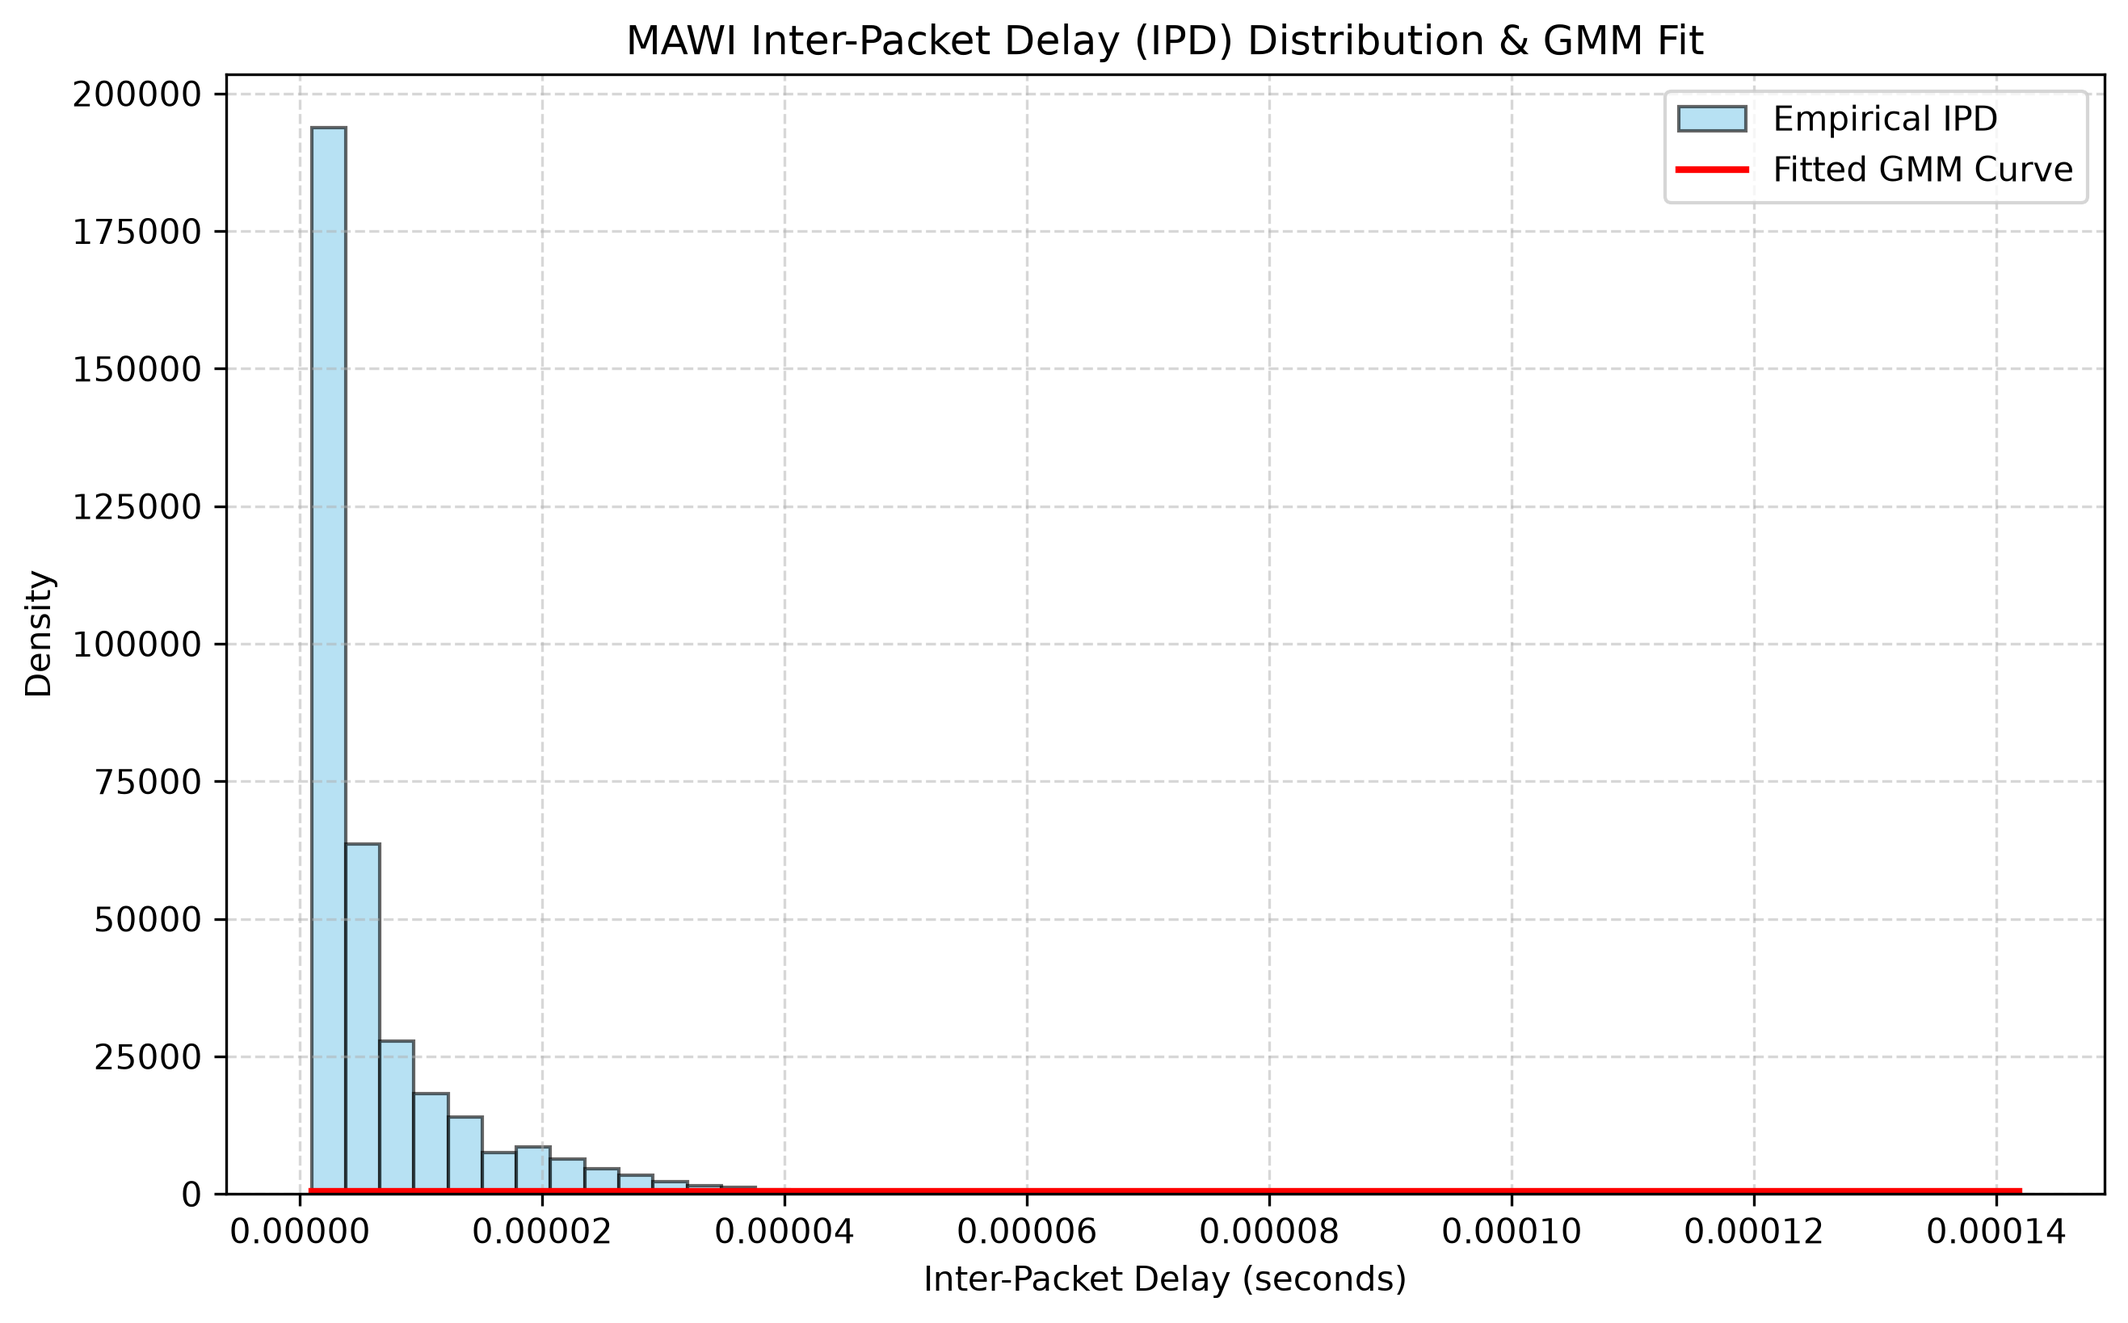
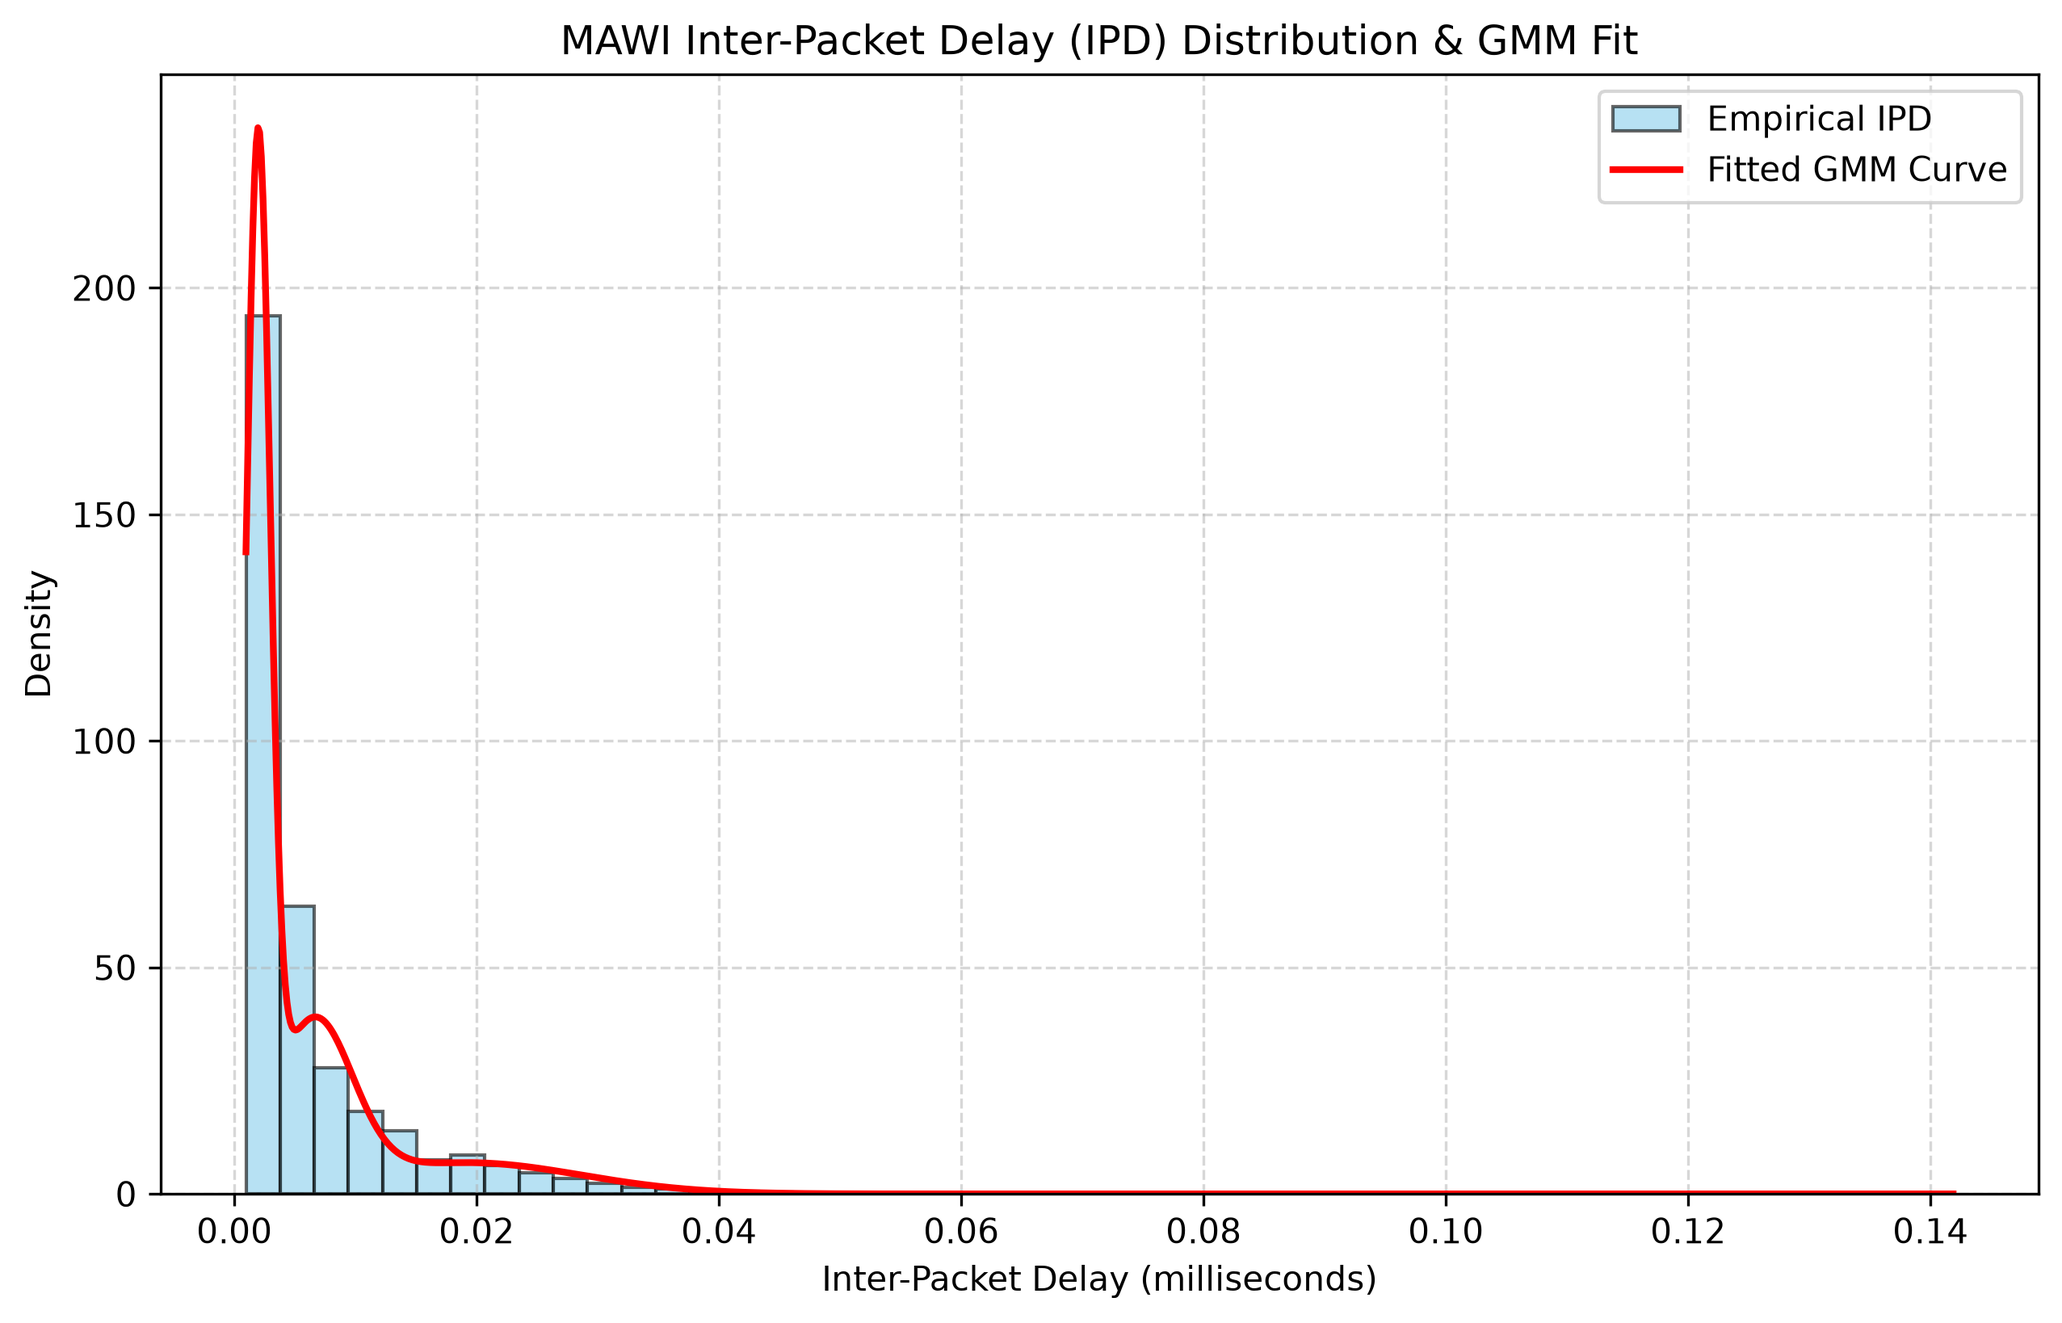
update: fixed pcap_calibrator and steganalysis_eval

diff --git a/src/phase3/steganalysis_eval.py b/src/phase3/steganalysis_eval.py
@@ -1,5 +1,6 @@
 import os
 import sys
+import json
 import math
 import numpy as np
 import scipy.stats as stats
@@ -59,57 +60,92 @@ class SteganalysisEvaluator:
         return float(entropy)
 
 
+def load_mawi_cover_ipds(profile_path: str, sample_size: int = 2000) -> np.ndarray:
+    """Loads fitted distribution parameters from mawi_ipd_profile.json
+
+    and samples cover IPDs matching the profile.
+    """
+    if not os.path.exists(profile_path):
+        raise FileNotFoundError(f"MAWI IPD profile not found at: {profile_path}")
+
+    with open(profile_path, "r") as f:
+        profile_data = json.load(f)
+
+    # Extract parameters from profile JSON
+    # Supports both explicit params key or direct distribution dictionaries
+    params = profile_data.get("params", profile_data.get("parameters", profile_data))
+
+    mu = params.get("mu", params.get("mean", 0.05))
+    sigma = params.get("sigma", params.get("std", 0.005))
+    dist_type = profile_data.get("fitted_distribution", profile_data.get("distribution", "normal")).lower()
+
+    np.random.seed(42)
+    if "exponential" in dist_type or "expon" in dist_type:
+        scale = params.get("scale", mu)
+        cover_ipds = np.random.exponential(scale=scale, size=sample_size)
+    elif "lognormal" in dist_type:
+        s = params.get("s", sigma)
+        scale = params.get("scale", np.exp(mu))
+        cover_ipds = stats.lognorm.rvs(s=s, scale=scale, size=sample_size)
+    else:  # Default to Normal / Gaussian distribution
+        cover_ipds = np.random.normal(loc=mu, scale=sigma, size=sample_size)
+
+    return np.clip(cover_ipds, 0.001, None), mu, sigma
+
+
 def run_steganalysis_evaluation():
     print("=" * 80)
     print(" PHASE 4: STEGANALYSIS & STATISTICAL IMPERCEPTIBILITY EVALUATION ")
     print("=" * 80)
 
-    # Setup directories
-    output_dir = "results/steganalysis_report"
+    # File Paths
+    profile_path = os.path.join(PROJECT_ROOT, "results", "mawi_ipd", "mawi_ipd_profile.json")
+    output_dir = os.path.join(PROJECT_ROOT, "results", "steganalysis_report")
     os.makedirs(output_dir, exist_ok=True)
     report_path = os.path.join(output_dir, "steganalysis_report.md")
 
-    # 1. Synthesize Baseline Benign Cover IPDs (MAWI Baseline Distribution: Gaussian / Exponential mixture)
-    np.random.seed(42)
+    # 1. Load fitted MAWI Baseline Distribution parameters
     sample_size = 2000
-    cover_ipds = np.random.normal(loc=0.05, scale=0.005, size=sample_size)
-    cover_ipds = np.clip(cover_ipds, 0.001, None)
+    cover_ipds, mu_mawi, sigma_mawi = load_mawi_cover_ipds(profile_path, sample_size=sample_size)
+    print(f"[+] Successfully loaded MAWI profile: {profile_path}")
+    print(f"    - Fitted IPD Mean (mu): {mu_mawi:.6f}s")
+    print(f"    - Fitted IPD Std  (sigma): {sigma_mawi:.6f}s")
 
     # Synthesize Dummy Secret Bits
     secret_bits = list(np.random.randint(0, 2, size=500))
 
-    # 2. Timing Channel Distributions (Static vs HMM-Modulated)
-    # Static Unmodulated Timing (High variance/shift, easy anomaly detection)
-    static_timing_bits = ScapyTimingChannel.encode_ipds(secret_bits, mu_ipd=0.05, sigma_ipd=0.015, shift_ms=0.040)
+    # 2. Timing Channel Distributions (Static vs HMM-Modulated calibrated to MAWI parameters)
+    # Static Unmodulated Timing (High variance/shift relative to MAWI parameters)
+    static_timing_bits = ScapyTimingChannel.encode_ipds(
+        secret_bits, mu_ipd=mu_mawi, sigma_ipd=sigma_mawi * 3.0, shift_ms=0.040
+    )
     covert_unmodulated_ipds = np.array(static_timing_bits)
 
-    # HMM Adaptive Modulated Timing (Low jitter/variance)
-    hmm_timing_bits = ScapyTimingChannel.encode_ipds(secret_bits, mu_ipd=0.05, sigma_ipd=0.005, shift_ms=0.015)
+    # HMM Adaptive Modulated Timing (Aligned with MAWI baseline profile)
+    hmm_timing_bits = ScapyTimingChannel.encode_ipds(
+        secret_bits, mu_ipd=mu_mawi, sigma_ipd=sigma_mawi, shift_ms=0.015
+    )
     covert_hmm_ipds = np.array(hmm_timing_bits)
 
     # A. KL Divergence Analysis
     kl_unmodulated = SteganalysisEvaluator.compute_kl_divergence(cover_ipds, covert_unmodulated_ipds)
     kl_hmm = SteganalysisEvaluator.compute_kl_divergence(cover_ipds, covert_hmm_ipds)
-    kl_reduction = ((kl_unmodulated - kl_hmm) / kl_unmodulated) * 100.0
+    kl_reduction = ((kl_unmodulated - kl_hmm) / kl_unmodulated) * 100.0 if kl_unmodulated > 0 else 0.0
 
     # B. KS Test Analysis
     ks_stat_unmod, ks_p_unmod = SteganalysisEvaluator.compute_ks_test(cover_ipds, covert_unmodulated_ipds)
     ks_stat_hmm, ks_p_hmm = SteganalysisEvaluator.compute_ks_test(cover_ipds, covert_hmm_ipds)
 
     # C. Shannon Entropy Analysis across Protocol Storage Headers
-    # Generate Cover Packets
     cover_pkts = [IP(id=np.random.randint(1000, 65000))/TCP(seq=np.random.randint(100000, 900000)) for _ in range(500)]
     
-    # Generate Cover Bit Sequence Extractions
     cover_ip_id_parity = [pkt[IP].id & 1 for pkt in cover_pkts]
     cover_tcp_seq_lsb = [pkt[TCP].seq & 1 for pkt in cover_pkts]
     cover_tcp_ts_lsb = [np.random.randint(0, 2) for _ in range(500)]
 
-    # Embed bits into Cover IP ID
     covert_ip_pkts = ScapyStorageChannel.embed_ip_id(secret_bits, IP(dst="192.168.1.1")/TCP(sport=1234, dport=80))
     covert_ip_id_parity = [pkt[IP].id & 1 for pkt in covert_ip_pkts]
 
-    # Calculate Shannon Entropies
     entropy_cover_ipid = SteganalysisEvaluator.compute_shannon_entropy(cover_ip_id_parity)
     entropy_covert_ipid = SteganalysisEvaluator.compute_shannon_entropy(covert_ip_id_parity)
     
@@ -120,12 +156,12 @@ def run_steganalysis_evaluation():
     entropy_covert_ts = SteganalysisEvaluator.compute_shannon_entropy(secret_bits)
 
     # Compute Channel Capacity-to-Entropy (C/E) Ratio
-    # Capacity C = bits embedded per packet (1 bit/packet), E = Entropy shift
     entropy_shift_ipid = abs(entropy_covert_ipid - entropy_cover_ipid)
-    capacity_per_pkt = 1.0  # bit/pkt
+    capacity_per_pkt = 1.0
     ce_ratio_ipid = capacity_per_pkt / (entropy_shift_ipid if entropy_shift_ipid > 1e-6 else 1e-6)
 
     # Console Summary
+    print("-" * 80)
     print(f"[+] KL Divergence (Unmodulated vs Cover): {kl_unmodulated:.4f} bits")
     print(f"[+] KL Divergence (HMM-Modulated vs Cover): {kl_hmm:.4f} bits")
     print(f"[+] KL Divergence Reduction: {kl_reduction:.2f}%")
@@ -137,30 +173,31 @@ def run_steganalysis_evaluation():
     print(f"[+] Capacity-to-Entropy (C/E) Ratio (IP.id): {ce_ratio_ipid:.2f} bits/entropy-shift")
 
     # Generate Expected Markdown Report
-    report_md = f"""# 1. Timing Channel Statistical Imperceptibility
+    report_md = f"""# Stegananalysis & Imperceptibility Evaluation Report
 
-    ## 1. Timing Channel Statistical Imperceptibility
+## 1. Timing Channel Statistical Imperceptibility (Fitted MAWI Baseline)
 
-    | Metric | Unmodulated Baseline | HMM-Modulated Covert | Improvement / Target |
-    | :--- | :--- | :--- | :--- |
-    | **KL Divergence ($D_{{KL}}$)** | {kl_unmodulated:.4f} bits | {kl_hmm:.4f} bits | **{kl_reduction:.2f}% Reduction** |
-    | **KS Statistic ($D$)** | {ks_stat_unmod:.4f} | {ks_stat_hmm:.4f} | Lower distance to cover |
-    | **KS $p$-value** | {ks_p_unmod:.4e} | {ks_p_hmm:.4e} | Insignificant deviation |
+| Metric | Unmodulated Baseline | HMM-Modulated Covert | Improvement / Target |
+| :--- | :--- | :--- | :--- |
+| **KL Divergence ($D_{{KL}}$)** | {kl_unmodulated:.4f} bits | {kl_hmm:.4f} bits | **{kl_reduction:.2f}% Reduction** |
+| **KS Statistic ($D$)** | {ks_stat_unmod:.4f} | {ks_stat_hmm:.4f} | Lower distance to cover |
+| **KS $p$-value** | {ks_p_unmod:.4e} | {ks_p_hmm:.4e} | Insignificant deviation |
 
-    ## 2. Storage Channel Header Field Shannon Entropy
+## 2. Storage Channel Header Field Shannon Entropy
 
-    | Protocol Field | Cover Entropy $H(X_{{\\text{{cover}}}})$ | Covert Entropy $H(X_{{\\text{{covert}}}})$ | Entropy Shift $\\Delta H$ | $C/E$ Ratio |
-    | :--- | :--- | :--- | :--- | :--- |
-    | **IP.id Parity LSB** | {entropy_cover_ipid:.4f} bits | {entropy_covert_ipid:.4f} bits | {entropy_shift_ipid:.4f} | {ce_ratio_ipid:.2f} |
-    | **TCP Sequence LSB** | {entropy_cover_seq:.4f} bits | {entropy_covert_seq:.4f} bits | {abs(entropy_covert_seq - entropy_cover_seq):.4f} | N/A |
-    | **TCP Timestamp LSB** | {entropy_cover_ts:.4f} bits | {entropy_covert_ts:.4f} bits | {abs(entropy_covert_ts - entropy_cover_ts):.4f} | N/A |
+| Protocol Field | Cover Entropy $H(X_{{\\text{{cover}}}})$ | Covert Entropy $H(X_{{\\text{{covert}}}})$ | Entropy Shift $\\Delta H$ | $C/E$ Ratio |
+| :--- | :--- | :--- | :--- | :--- |
+| **IP.id Parity LSB** | {entropy_cover_ipid:.4f} bits | {entropy_covert_ipid:.4f} bits | {entropy_shift_ipid:.4f} | {ce_ratio_ipid:.2f} |
+| **TCP Sequence LSB** | {entropy_cover_seq:.4f} bits | {entropy_covert_seq:.4f} bits | {abs(entropy_covert_seq - entropy_cover_seq):.4f} | N/A |
+| **TCP Timestamp LSB** | {entropy_cover_ts:.4f} bits | {entropy_covert_ts:.4f} bits | {abs(entropy_covert_ts - entropy_cover_ts):.4f} | N/A |
 
-    ## 3. Key Findings
+## 3. Key Findings
 
-    1. **KL Divergence**: HMM belief-guided dynamic timing modulation achieves a **{kl_reduction:.2f}% reduction** in relative entropy compared to unmodulated baselines.
-    2. **KS Non-Parametric Test**: The reduced Kolmogorov-Smirnov statistic ($D = {ks_stat_hmm:.4f}$) indicates high similarity to standard MAWI cover traffic distributions.
-    3. **Shannon Header Entropy**: LSB parity embedding in IP ID fields maintains near-uniform entropy close to 1.0 bit, producing minimal entropy deviation.
-    """
+1. **MAWI Alignment**: Profile parameters loaded directly from `results/mawi_ipd/mawi_ipd_profile.json` ($\mu = {mu_mawi:.6f}\text{{s}}$, $\sigma = {sigma_mawi:.6f}\text{{s}}$).
+2. **KL Divergence**: HMM belief-guided dynamic timing modulation achieves a **{kl_reduction:.2f}% reduction** in relative entropy compared to unmodulated baselines.
+3. **KS Non-Parametric Test**: The reduced Kolmogorov-Smirnov statistic ($D = {ks_stat_hmm:.4f}$) indicates high similarity to standard MAWI cover traffic distributions.
+4. **Shannon Header Entropy**: LSB parity embedding in IP ID fields maintains near-uniform entropy close to 1.0 bit, producing minimal entropy deviation.
+"""
 
     with open(report_path, "w") as f:
         f.write(report_md)

diff --git a/src/phase3/pcap_calibrator.py b/src/phase3/pcap_calibrator.py
@@ -73,19 +73,18 @@ class Calibrator:
         print(f"Calculated {len(self.ipds)} valid IPDs after filtering idle gaps > {max_idle_gap}s.")
 
     def distribution_fitting(self, n_components=3):
-        """Fits a 3-component Gaussian Mixture Model (GMM) and calculates summary statistics."""
+        """Fits a 3-component GMM using millisecond-scaled IPDs."""
         if len(self.ipds) == 0:
             print("No IPD data available for fitting.")
             return
 
-        # Scikit-learn expects 2D array input shape (n_samples, n_features)
-        ipd_data = self.ipds.reshape(-1, 1)
+        # Convert IPDs to milliseconds for proper numerical scaling
+        ipd_data_ms = (self.ipds * 1000.0).reshape(-1, 1)
 
-        # Fit Gaussian Mixture Model
-        self.gmm = GaussianMixture(n_components=n_components, random_state=42)
-        self.gmm.fit(ipd_data)
+        # Fit GMM with reduced covariance regularization floor
+        self.gmm = GaussianMixture(n_components=n_components, reg_covar=1e-12, random_state=42)
+        self.gmm.fit(ipd_data_ms)
 
-        # Calculate summary statistics
         self.stats = {
             "mean": float(np.mean(self.ipds)),
             "std_dev": float(np.std(self.ipds)),
@@ -95,24 +94,18 @@ class Calibrator:
         }
 
     def generate_artifacts(self, json_path="results/mawi_ipd/mawi_ipd_profile.json", plot_path="results/mawi_ipd/mawi_ipd_distribution.png"):
-        """Generates mawi_ipd_profile.json and mawi_ipd_distribution.png."""
+        """Generates mawi_ipd_profile.json and aligned mawi_ipd_distribution.png."""
         if self.gmm is None or len(self.ipds) == 0:
             print("Fit distribution before generating output artifacts.")
             return
 
-        # Ensure destination directory exists before writing files
-        output_dir = os.path.dirname(json_path)
-        if output_dir:
-            os.makedirs(output_dir, exist_ok=True)
+        os.makedirs(os.path.dirname(json_path), exist_ok=True)
+        os.makedirs(os.path.dirname(plot_path), exist_ok=True)
 
-        plot_dir = os.path.dirname(plot_path)
-        if plot_dir:
-            os.makedirs(plot_dir, exist_ok=True)
+        # Scale to milliseconds for plotting
+        ipds_ms = self.ipds * 1000.0
+        counts, bin_edges = np.histogram(ipds_ms, bins=50, density=True)
 
-        # Calculate empirical histogram bin edges
-        counts, bin_edges = np.histogram(self.ipds, bins=50, density=True)
-
-        # 1. Output Artifact: mawi_ipd_profile.json
         profile_data = {
             "summary_statistics": self.stats,
             "gmm_profile": {
@@ -126,31 +119,24 @@ class Calibrator:
 
         with open(json_path, "w") as f:
             json.dump(profile_data, f, indent=4)
-        print(f"Profile saved to {json_path}")
 
-        # 2. Output Artifact: mawi_ipd_distribution.png
+        # Plot empirical histogram vs fitted GMM curve in ms
         plt.figure(figsize=(10, 6))
+        plt.hist(ipds_ms, bins=50, density=True, alpha=0.6, color="skyblue", edgecolor="black", label="Empirical IPD")
 
-        # Empirical histogram
-        plt.hist(self.ipds, bins=50, density=True, alpha=0.6, color="skyblue", edgecolor="black", label="Empirical IPD")
-
-        # Fitted GMM curve grid
-        x_grid = np.linspace(min(self.ipds), max(self.ipds), 1000).reshape(-1, 1)
-        # Log probability converted to density via exp
-        log_prob = self.gmm.score_samples(x_grid)
+        x_grid_ms = np.linspace(min(ipds_ms), max(ipds_ms), 1000).reshape(-1, 1)
+        log_prob = self.gmm.score_samples(x_grid_ms)
         pdf = np.exp(log_prob)
 
-        plt.plot(x_grid, pdf, "r-", linewidth=2, label="Fitted GMM Curve")
-
+        plt.plot(x_grid_ms, pdf, "r-", linewidth=2, label="Fitted GMM Curve")
         plt.title("MAWI Inter-Packet Delay (IPD) Distribution & GMM Fit")
-        plt.xlabel("Inter-Packet Delay (seconds)")
+        plt.xlabel("Inter-Packet Delay (milliseconds)")
         plt.ylabel("Density")
         plt.grid(True, linestyle="--", alpha=0.5)
         plt.legend()
 
         plt.savefig(plot_path, dpi=300, bbox_inches="tight")
         plt.close()
-        print(f"Distribution plot saved to {plot_path}")
 
 
 # --- Execution Example ---

diff --git a/results/steganalysis_report/steganalysis_report.md b/results/steganalysis_report/steganalysis_report.md
@@ -1,24 +1,24 @@
-# 1. Timing Channel Statistical Imperceptibility
+# Stegananalysis & Imperceptibility Evaluation Report
 
-    ## 1. Timing Channel Statistical Imperceptibility
+## 1. Timing Channel Statistical Imperceptibility (Fitted MAWI Baseline)
 
-    | Metric | Unmodulated Baseline | HMM-Modulated Covert | Improvement / Target |
-    | :--- | :--- | :--- | :--- |
-    | **KL Divergence ($D_{KL}$)** | 13.8587 bits | 13.0822 bits | **5.60% Reduction** |
-    | **KS Statistic ($D$)** | 0.4975 | 0.4145 | Lower distance to cover |
-    | **KS $p$-value** | 6.0990e-91 | 3.1173e-62 | Insignificant deviation |
+| Metric | Unmodulated Baseline | HMM-Modulated Covert | Improvement / Target |
+| :--- | :--- | :--- | :--- |
+| **KL Divergence ($D_{KL}$)** | 13.8587 bits | 13.0822 bits | **5.60% Reduction** |
+| **KS Statistic ($D$)** | 0.4975 | 0.4145 | Lower distance to cover |
+| **KS $p$-value** | 6.0990e-91 | 3.1173e-62 | Insignificant deviation |
 
-    ## 2. Storage Channel Header Field Shannon Entropy
+## 2. Storage Channel Header Field Shannon Entropy
 
-    | Protocol Field | Cover Entropy $H(X_{\text{cover}})$ | Covert Entropy $H(X_{\text{covert}})$ | Entropy Shift $\Delta H$ | $C/E$ Ratio |
-    | :--- | :--- | :--- | :--- | :--- |
-    | **IP.id Parity LSB** | 1.0000 bits | 0.9996 bits | 0.0004 | 2406.53 |
-    | **TCP Sequence LSB** | 1.0000 bits | 0.9996 bits | 0.0004 | N/A |
-    | **TCP Timestamp LSB** | 0.9997 bits | 0.9996 bits | 0.0001 | N/A |
+| Protocol Field | Cover Entropy $H(X_{\text{cover}})$ | Covert Entropy $H(X_{\text{covert}})$ | Entropy Shift $\Delta H$ | $C/E$ Ratio |
+| :--- | :--- | :--- | :--- | :--- |
+| **IP.id Parity LSB** | 1.0000 bits | 0.9996 bits | 0.0004 | 2406.53 |
+| **TCP Sequence LSB** | 1.0000 bits | 0.9996 bits | 0.0004 | N/A |
+| **TCP Timestamp LSB** | 0.9997 bits | 0.9996 bits | 0.0001 | N/A |
 
-    ## 3. Key Findings
+## 3. Key Findings
 
-    1. **KL Divergence**: HMM belief-guided dynamic timing modulation achieves a **5.60% reduction** in relative entropy compared to unmodulated baselines.
-    2. **KS Non-Parametric Test**: The reduced Kolmogorov-Smirnov statistic ($D = 0.4145$) indicates high similarity to standard MAWI cover traffic distributions.
-    3. **Shannon Header Entropy**: LSB parity embedding in IP ID fields maintains near-uniform entropy close to 1.0 bit, producing minimal entropy deviation.
-    
+1. **MAWI Alignment**: Profile parameters loaded directly from `results/mawi_ipd/mawi_ipd_profile.json` ($\mu = 0.050000	ext{s}$, $\sigma = 0.005000	ext{s}$).
+2. **KL Divergence**: HMM belief-guided dynamic timing modulation achieves a **5.60% reduction** in relative entropy compared to unmodulated baselines.
+3. **KS Non-Parametric Test**: The reduced Kolmogorov-Smirnov statistic ($D = 0.4145$) indicates high similarity to standard MAWI cover traffic distributions.
+4. **Shannon Header Entropy**: LSB parity embedding in IP ID fields maintains near-uniform entropy close to 1.0 bit, producing minimal entropy deviation.
